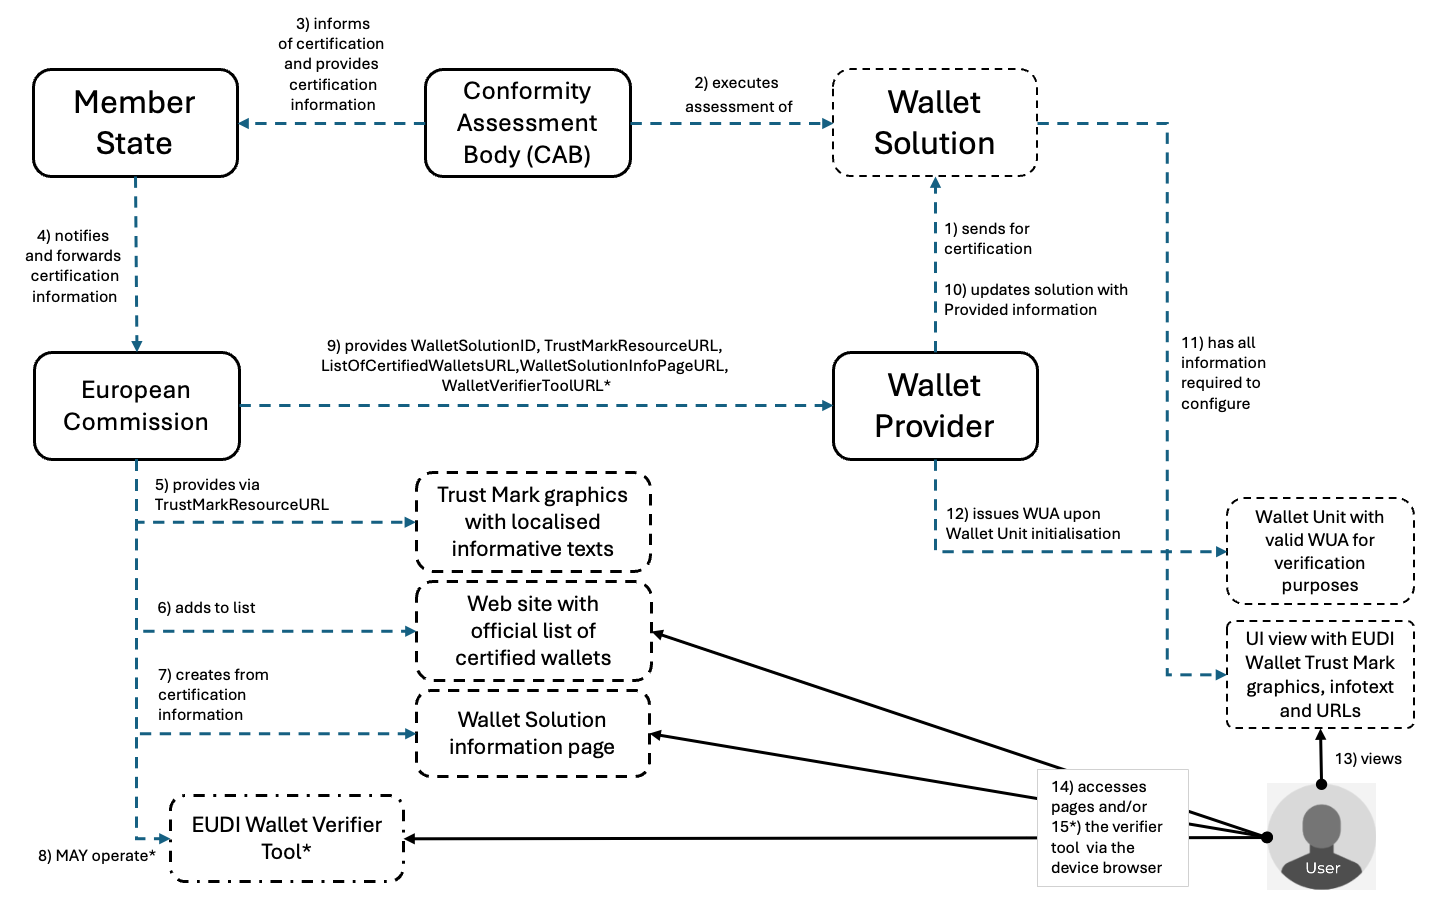
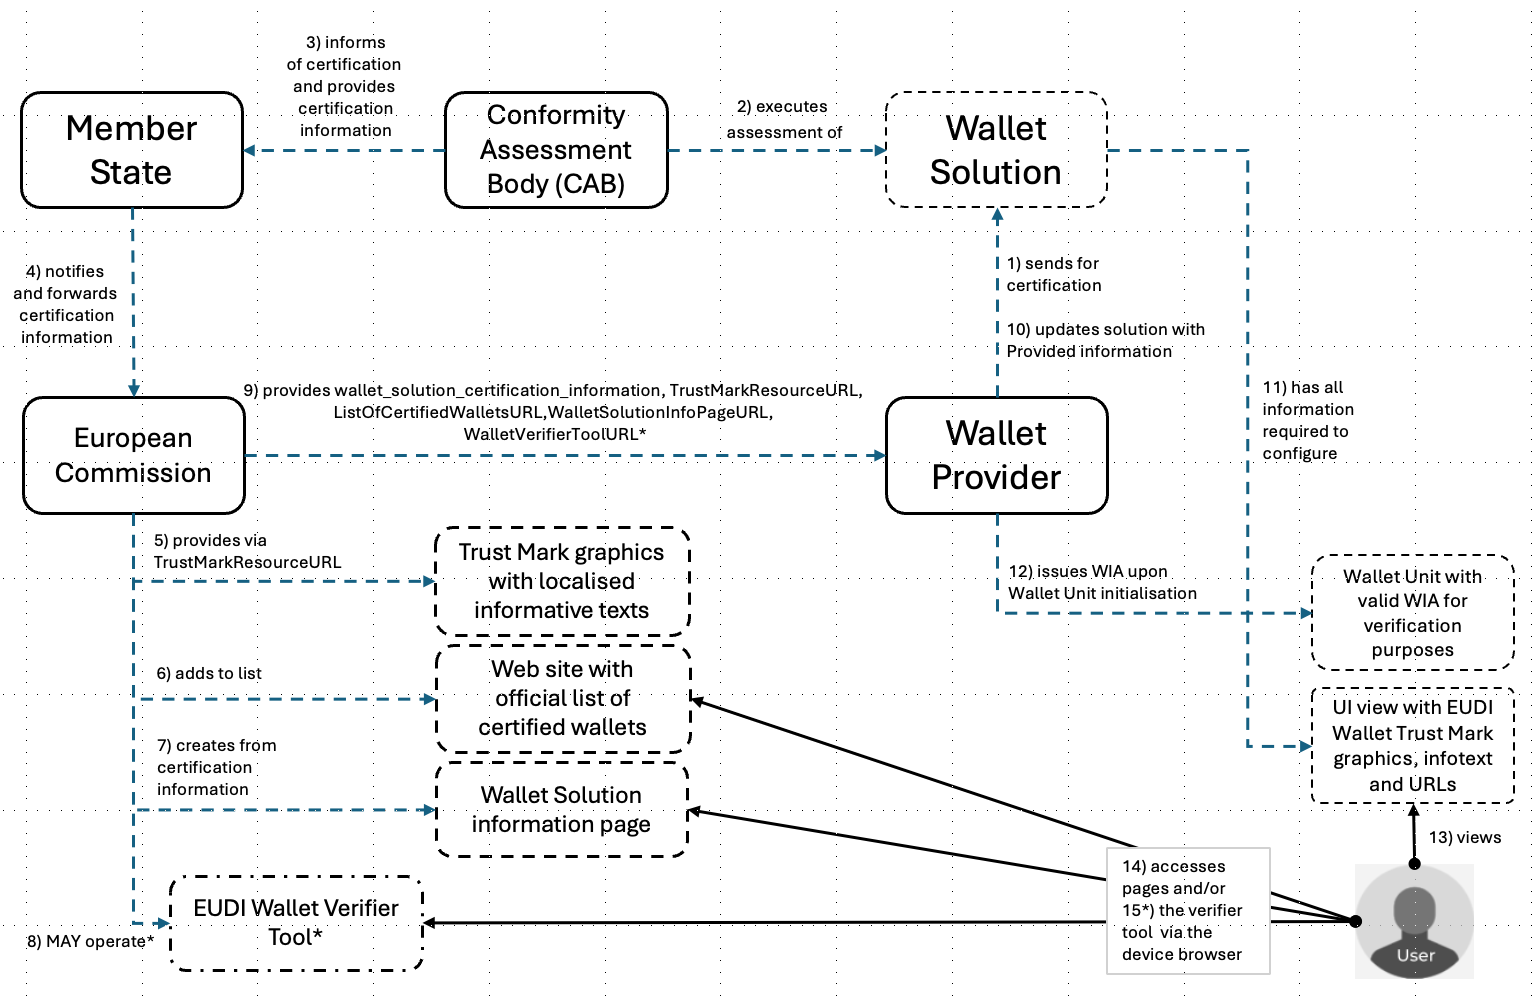
Review/ts1 topic u rr update (#221)
* Topic U RR related text updates in main  specification

* Update figure 2

* Typo fix in references

* Added topic details to version info

---------

diff --git a/docs/technical-specifications/ts1-eudi-wallet-trust-mark.md b/docs/technical-specifications/ts1-eudi-wallet-trust-mark.md
@@ -31,8 +31,8 @@ https://creativecommons.org/licenses/by/4.0/
 | `1.0`   | 2025-04-25 | Final version (v1.0)                                                       |
 | `1.1`   | 2025-11-14 | Updated version (v1.1) with JSON schemas for Trust Mark resources          |
 | `1.1.1` | 2025-11-18 | Editorial and typo fixes to version v1.1                                   |
-| `1.1.2` | 2026-01-30 | Editorial update (licensing and reuse clarification) |
-
+| `1.1.2` | 2026-01-30 | Editorial update (licensing and reuse clarification)                       |
+| `1.2`   | 2026-06-03 | Updated version based on outcome of topic U refinement round  within the European Digital Identity Cooperation Group (EDICG)  |
 
 ## 1 Introduction and Overview
 
@@ -60,7 +60,7 @@ As the Regulation does not specify what verifiable means, or where it shall be d
 
 This document does not address the visual or user experience related design elements related to the trust mark; these are provided separately by the European Commission and may be derived from the final requirements listed in this specification.
 
- >NOTE 1: The presence and rendering of the EUDI Wallet Trust Mark in a Wallet Unit could also be bound to validity of the WUA. The third parties or European Commission MAY later decide to operate a wallet certification verification service based on presenting the WUA for this service, thus allowing on-demand verification of the Wallet Solution certification status for the User. The operating principle of this simple verification service is specified broadly in Section 2.2, and any requirements or components related to it marked as **OPTIONAL** in Sections 3 and 4 detailing exact technical solution.
+ >NOTE 1: The presence and rendering of the EUDI Wallet Trust Mark in a Wallet Unit could also be bound to validity of the Wallet Instance Attestation (WIA). The third parties or European Commission MAY later decide to operate a wallet certification verification service based on presenting a WIA for this service, thus allowing on-demand verification of the Wallet Solution certification status for the User. The operating principle of this simple verification service is specified broadly in Section 2.2, and any requirements or components related to it marked as **OPTIONAL** in Sections 3 and 4 detailing exact technical solution.
 >
 >NOTE 2: Any possible requirements for trust indicators unrelated to the EUDI Wallet Solution are out of scope of this document. **The scope is the trust mark visible in the EUDI Wallet, not the Relying Party services and/or the Attestation Provider qualifications**. The Trust Mark analysis and solution may at a later stage be extended to other elements of the European Digital Identity ecosystem, so that the Users can be informed regarding the reliability and trustworthiness of the different Relying Parties they interact with.
 
@@ -100,7 +100,7 @@ As a conclusion on the overview section, the approach for introducing the EUDI W
 
 ### 2.1 Trust Mark UI view with links to trusted list of EUDI Wallets and Wallet certification information page
 
-The proposed solution is to arrange any trust mark graphical elements (logo, image,...) and localised information about the wallet certification to the Wallet Unit by providing a set of necessary links to the data in a new (metadata-) object. This data can, depending on the build process of the Wallet Provider, be delivered prior to Wallet distribution, or provided online from the URL provided to the Wallet Provider. The latter approach should be synchronised with the Wallet Unit activation where the initial Wallet Unit Attestation (WUA)is issued.
+The proposed solution is to arrange any trust mark graphical elements (logo, image,...) and localised information about the wallet certification to the Wallet Unit by providing a set of necessary links to the data in a new (metadata-) object. This data can, depending on the build process of the Wallet Provider, be delivered prior to Wallet distribution, or provided online from the URL provided to the Wallet Provider. The latter approach should be synchronised with the Wallet Unit activation where the initial Wallet Instance Attestation (WIA)is issued to a User's EUDI Wallet.
 
 The localised, human readable information, including the links to use for reviewing the certification status of the Wallet Solution of the User SHALL be rendered in user-friendly manner on Wallet Provider preferred UI view/views (all meeting the requirements set for the Wallet Users in section 2.1) combined with the presentation of EUDI Wallet Trust Mark graphical elements.
 
@@ -114,9 +114,9 @@ Figure 1. Welcome view of an EUDI Wallet with Trust Mark logo with text and info
 
 ### 2.2 EUDI Wallet verification tool (a service concept)
 
-For a general technical note, the issuance of the WUA upon Wallet Unit activation allows creation of third party services that could function as on-demand Wallet verification services, issuing the Wallet Unit a suitable 'statement attestation' in exchange of the User presenting a valid WUA to this service. This attestation would work for the Users as a *visible* local cryptographic proof of the status of their Wallet Solution certification, aside of the user-invisible WUA.
+For a general technical note, the issuance of the WIA upon Wallet Unit activation allows creation of third party services that could function as on-demand Wallet verification services, issuing the Wallet Unit a suitable 'statement attestation' in exchange of the User presenting a valid WIA to this service. This attestation would work for the Users as a *visible* local cryptographic proof of the status of their Wallet Solution certification, aside of the user-invisible WIA.
 
-This technical specification does not mandate provisioning of a separate EUDI Wallet verifier service by the European Commission or by any other ecosystem stakeholders. Functionality and requirements of services handling WUA verification in context of the EUDI Wallet Trust Mark (outside the WUA verification use cases already in the ARF) may be specified later. The concept is carried along in the specification architecture (Section 4) marked as OPTIONAL, and related requirements and components are marked with asterisk ('\*').
+This technical specification does not mandate provisioning of a separate EUDI Wallet verifier service by the European Commission or by any other ecosystem stakeholders. Functionality and requirements of services handling WIA verification in context of the EUDI Wallet Trust Mark (outside the WIA verification use cases already in the ARF) may be specified later. The concept is carried along in the specification architecture (Section 4) marked as OPTIONAL, and related requirements and components are marked with asterisk ('\*').
 
 ## 3 Actor-Oriented Requirements
 
@@ -138,7 +138,7 @@ The EUDI Wallet Trust Mark functionality related requirements are presented in t
 
 **EWTM-U4**: As a user of a EUDI Wallet, after installation, I want a means to check that the EUDI Wallet Solution certification is legitimate as part of the EUDI Wallet Instance activation.
 
-> Note: Certification related information is made available to the EUDI Wallet Unit via the WUA issuance.
+> Note: Certification related information is made available to the EUDI Wallet Unit via the WIA issuance.
 
 **EWTM-U5**: As a User of a EUDI Wallet, I want a means to check on demand if the EUDI Wallet Unit that I am currently using is a Certified EUDI Wallet.
 
@@ -174,7 +174,7 @@ The EUDI Wallet Trust Mark functionality related requirements are presented in t
 
 **EWTM-WP5**: As a Wallet Provider, I need online access to the EUDI Wallet Trust Mark logo and localised information texts about the Trust Mark and/or certification from the European Commission.
 
-> Note: This online information data object is needed for the Wallet Unit to customise the UI view to the localisation language used by the User's mobile device. This data is accessible upon issuance of the issuance WUA to the Wallet Unit. See *TrustMarkResourceURL*.
+> Note: This online information data object is needed for the Wallet Unit to customise the UI view to the localisation language used by the User's mobile device. This data is accessible upon issuance of the initial WIA to the Wallet Unit. See *TrustMarkResourceURL*.
 
 **EWTM-WP6**: As a Wallet Provider I want to be able to link from the Wallet Unit's UI view with the EUDI Wallet Trust Mark graphics and information text to the European Commission-provided link to the eIDAS Dashboard page that shows the up-to-date list of official certified EUDI Wallets.
 
@@ -200,9 +200,9 @@ The EUDI Wallet Trust Mark functionality related requirements are presented in t
 
 **EWTM-EC4**: As the European Commission, I want to allocate a new certified EUDI Wallet Solution a unique identifier, so that I can use it as part of the link of **EWTM-EC3** and enable online querying for this EUDI Wallet Solution's certification information via the eIDAS Dashboard.
 
-**EWTM-EC5**: As European Commission, I want to deliver the unique identifier of **EWTM-EC4** to the Wallet Provider, so that Wallet Provider can use the identifier as the WalletSolutionID value in the (issuance) Wallet Unit Attestations it issues to individual Wallet Units of the certified Wallet Solution.
+**EWTM-EC5**: As European Commission, I want to deliver the unique identifier of **EWTM-EC4** to the Wallet Provider, so that Wallet Provider can use this identifier as part of the `wallet_solution_certification_information` value in the Wallet Instance Attestations it issues to individual Wallet Units of the certified Wallet Solution.
 
-> Note: See WalletSolutionID in \[Issuance WUA Specification\].
+> Note: See `wallet_solution_certification_information` in \[Issuance WUA Specification\].
 
 **EWTM-EC6**: As European Commission, I want the Member States to inform me within 24 hours if a given Wallet Solution has been revoked, so that I can remove it from the official online list of certified EUDI Wallet Solutions.
 
@@ -218,7 +218,7 @@ The EUDI Wallet Trust Mark functionality related requirements are presented in t
 
 The realisation of the EUDI Wallet Trust Mark as specified in Section 4.2 is dependent on providing the Wallet Solution (or individual Wallet Unit) access to necessary machine-readable information latest upon Wallet Unit activation. The EUDI Wallet Trust Mark itself will have graphical appearance and informatory texts as defined and released by the European Commission. Rendering of these assets on the Wallet Unit is  enabled through providing access to those as URLs, so that the Wallet Solution development team (or if UI view configuration is updated after the app compilation and delivery, each Wallet Unit individually) can receive the information.
 
-A Wallet Unit that needs this information in activation stage (does not have the information provide in the compiled Wallet Solution asset) SHALL be able to download these resources by utilising WalletTrustMarkInformation data (see Table 1) provided to the Wallet Provider. This information SHALL be provided to the Wallet Unit by the Wallet Provider in parallel to its initial WUA issuance.
+A Wallet Unit that needs this information in activation stage (does not have the information provide in the compiled Wallet Solution asset) SHALL be able to download these resources by utilising WalletTrustMarkInformation data (see Table 1) provided to the Wallet Provider. This information SHALL be provided to the Wallet Unit by the Wallet Provider in parallel to its initial WIA issuance.
 
 The data object `WalletTrustMarkInformation` contents are defined in Table 1, and JSON schema provided in [Annex A.1](#a1-wallettrustmarkinformation-json-schema-normative). The information SHALL be delivered for the Wallet Provider for Wallet Solution configurability purposes either pre-distribution or on-demand, as described in [Section 4.2](#42-solution-architecture). The on-demand delivery SHALL, and pre-distribution delivery MAY use the JSON object schema.
 
@@ -229,7 +229,7 @@ The data object `WalletTrustMarkInformation` contents are defined in Table 1, an
 | TrustMarkResourceURL         | URL of the official EUDI Wallet Trust Mark graphics and User Info resources [`TrustMarkResource`](#411-trustmarkresource-object), used for rendering in the Wallet user interface; contents provided and hosted by the EC. | URL | Mandatory |
 | ListOfCertifiedWalletsURL    |  URL of the public list of certified EUDI Wallet Solutions in EU; provided and hosted by the EC. | URL | Mandatory |
 | ListOfCertifiedWalletsQRCode |  QR Code containing the information of ListOfCertifiedWalletsURL | ISO-8859-1 Byte mode QR code | Optional |
-| WalletSolutionInfoPageURL    | URL to the certified Wallet Solution's own information page under the list of certified EUDI Wallet Solutions page. Constructed from the ListOfCertifiedWalletsURL URL appended with a '?'+ the WalletSolutionID Identifier of the Wallet Solution. *Note: This allows, as necessary, a direct search query from the Wallet user interface to open the individual Wallet Solution page from the list behind the top level of certified Wallets list page*. | URL | Mandatory |
+| WalletSolutionInfoPageURL    | URL to the certified Wallet Solution's own information page under the list of certified EUDI Wallet Solutions page. Constructed from the ListOfCertifiedWalletsURL URL appended with a '?'+ the uniquely identifying part of `wallet_solution_certification_information` of the Wallet Solution. *Note: This allows, as necessary, a direct search query from the Wallet user interface to open the individual Wallet Solution page from the list behind the top level of certified Wallets list page*. | URL | Mandatory |
 | WalletSolutionInfoPageQRCode |  QR Code containing the information of WalletSolutionInfoPageURL | ISO-8859-1 Byte mode QR code | Optional  |
 | WalletVerifierToolURL* | URL pointing to the official EUDI Wallet Verification Tool's (an Attestation Provider Service) */.well-known/openid-credential-issuer* endpoint used for retrieval of the attestation provider metadata. | URL  | Optional |
 
@@ -262,7 +262,7 @@ The example data object has only three localisation strings for brevity, a full 
 
 #### 4.1.3 WalletSolutionInfoPageURL
 
-the *WalletSolutionInfoPageURL* SHALL point to the individual Wallet Solution's information page under the *ListofCertifiedWalletsURL*. URL SHALL be constructed from the ListOfCertifiedWalletsURL URL appended with a '?'+ the WalletSolutionID Identifier (see Appendix 1, Table 2 of \[Issuance WUA Specification\] of the certified Wallet Solution and SHALL be provided for the Wallet Provider to be included in the *WalletTrustMarkInformation* data object.
+the *WalletSolutionInfoPageURL* SHALL point to the individual Wallet Solution's information page under the *ListofCertifiedWalletsURL*. URL SHALL be constructed from the ListOfCertifiedWalletsURL URL appended with a '?'+ the identifying `wallet_solution_certification_information` (see non-normative WIA example in [clause 3.1](https://github.com/eu-digital-identity-wallet/eudi-doc-standards-and-technical-specifications/blob/main/docs/technical-specifications/ts3-wallet-unit-attestation.md#31-examples) of \[Issuance WUA Specification\]) of the certified Wallet Solution and SHALL be provided for the Wallet Provider to be included in the *WalletTrustMarkInformation* data object.
 
 #### 4.1.4 QR Code versions of page resources
 
@@ -302,17 +302,17 @@ The functions, inputs and outputs of individual systems in the diagram of Figure
 
 **The European Commission**'s responsible unit for the Trust Mark information and listing of certified EUDI Wallets manages that
 
-* (5) The EUDI Wallet Trust Mark materials are available online as required behind a web resource (TrustMarkResourceURL)
-* (6) the certified Wallet Solution is given a WalletSolutionID, information of the Wallet Solution is added to the official list of certified wallets
+* (5) The EUDI Wallet Trust Mark materials are available online as required behind a web resource (*TrustMarkResourceURL*)
+* (6) the certified Wallet Solution is provided its *wallet_solution_certification_information*, information of the Wallet Solution is added to the official list of certified wallets
 * (7) a Wallet Solution specific information page is created and published online
 * (8) OPTIONALLY, the entity (or any 3rd party whatsover) develops, registers and operates the EUDI Wallet Verifier Tool as a wallet-relying party service per description of Section 2.2.
-* (9) The Wallet Provider is sent information required for configuring the certified Wallet Solution and issuing the Wallet Unit Attestation: the assigned *WalletSolutionID*, the *TrustMarkResourceURL*, the *ListOfCertifiedWalletsURL*, the *WalletSolutionInfoPageURL*, and (OPTIONALLY) the *WalletVerifierToolURL*.
+* (9) The Wallet Provider is sent information required for configuring the certified Wallet Solution and issuing the Wallet Unit Attestation: the assigned *wallet_solution_certification_information*, the *TrustMarkResourceURL*, the *ListOfCertifiedWalletsURL*, the *WalletSolutionInfoPageURL*, and (OPTIONALLY) the *WalletVerifierToolURL*.
 
 After receiving the information, the Wallet Provider updates the Wallet Solution asset where needed (10) in order to (11) be able to render the Wallet Solution specific **EUDI Wallet UI view with expected graphics and other information of the Trust Mark** (material and user experience guidelines for which the European Commission is responsible according to requirement **EWTM-EC1**).
 
-The WUA issuance (12) by the Wallet Provider happens at Wallet Unit activation as defined in the ARF and related technical specification (and happens irrespective of the requirements of this specification). It provides the basis for the optional verification tool services.
+The WIA issuance (12) by the Wallet Provider happens at Wallet Unit activation as defined in the ARF and related technical specification (and happens irrespective of the requirements of this specification). It provides the basis for the optional verification tool services.
 
-**The User** can at their discretion view (13) the official EUDI Trust Mark information from the UI view of the EUDI Wallet, and (14) access the EUDI Wallet listing and individual Wallet Solution pages (and OPTIONAL Verifier Tool service, if such are set available to verify the Wallet Solution's certification status against presenting the WUA for verification by the service).
+**The User** can at their discretion view (13) the official EUDI Trust Mark information from the UI view of the EUDI Wallet, and (14) access the EUDI Wallet listing and individual Wallet Solution pages (and OPTIONAL Verifier Tool service, if such are set available to verify the Wallet Solution's certification status against presenting the WIA for verification by the service).
 
 > Note: The guidelines for situations if the Wallet Solution of the User proves to be non-certified for whatever reason (obvious fake, revoked at solution or at instance level) are equally important to showing a positive outcome with graphics and texts of the EUDI Wallet Trust Mark. These 'unhappy flow' scenarios and remedies should be covered in public EUDI Wallet communication materials, they are not subject of this technical specification.
 
@@ -320,7 +320,7 @@ The WUA issuance (12) by the Wallet Provider happens at Wallet Unit activation a
 
 | Reference      | Description |
 |----------------------------------------|----------------------------------------------|
-| [WCAG 2.1 ]                            | [Web Content Accessibility Guide\sion 2.1](https://www.w3.org/TR/WCAG21/) |
+| [WCAG 2.1 ]                            | [Web Content Accessibility Guide\version 2.1](https://www.w3.org/TR/WCAG21/) |
 | [Issuance WUA Specification]           | [Specification of Wallet Unit Attestations (WUA) used in issuance of PID and Attestations](https://github.com/eu-digital-identity-wallet/eudi-doc-standards-and-technical-specifications/blob/main/docs/technical-specifications/ts3-wallet-unit-attestation.md)                                     |
 |  [OpenID4VCI]                          | [OpenID For Verifiable Credential Issuance v1.0](https://github.com/eu-digital-identity-wallet/eudi-doc-standards-and-technical-specifications/issues/3)  |
 